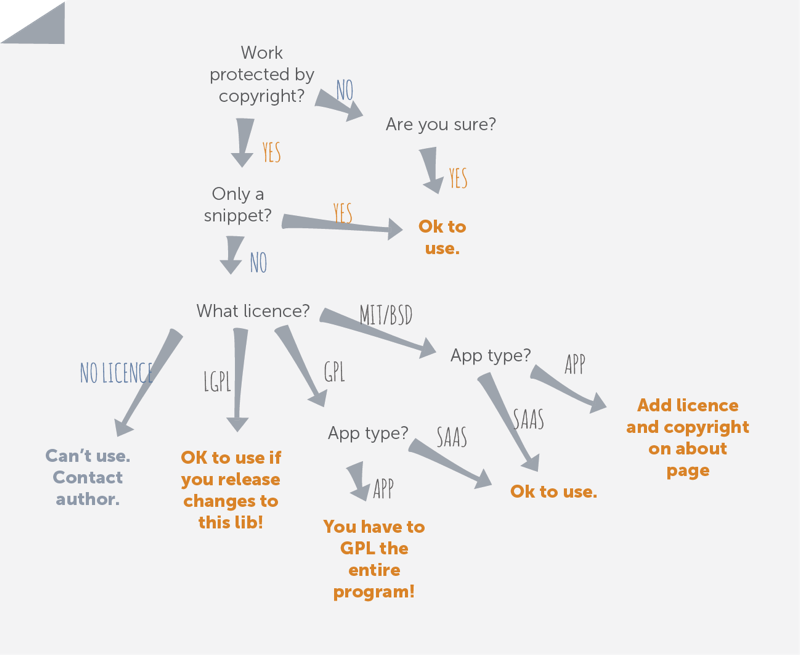
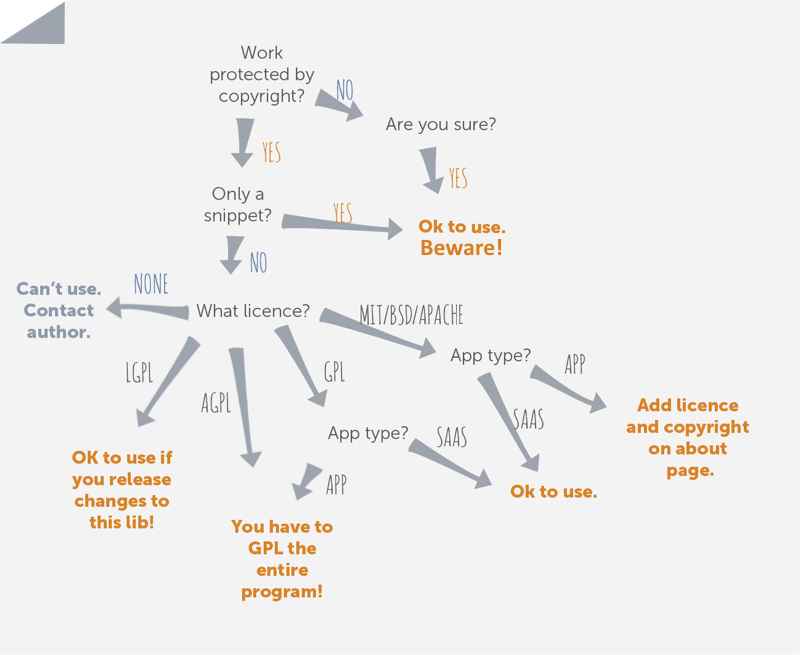
Adding AGPL and Apache to license choosing diagram, also improving the texts

Changed region(s): [[0.0, 0.3969, 0.5312, 0.916], [0.5, 0.3359, 0.625, 0.3969], [0.5, 0.458, 0.5938, 0.4885]]

diff --git a/index.html b/index.html
@@ -129,7 +129,7 @@ description: Spice Program is a company sponsored open source and social impact 
                     <div class="col-sm-4 box brown">
                         <img src="/assets/img/choose_big.svg" alt="Choosing an open source license" />
                         <h3>Choosing a license</h3>
-                        <p>How to choose the appropriate license for your project?</p>
+                        <p>How to choose the appropriate license for your project? Can you make use of someone else's work?</p>
                     </div>
                 </a>
                 <a href="/licenses">

diff --git a/_includes/choose.md b/_includes/choose.md
@@ -16,6 +16,10 @@ Here's how we roll:
 Can I use this work?
 --------------------
 
-It is very important to know if you can use some work. Please consider at least these points:
+It is important to know, if you can use some work. Check out this diagram. Keep in mind that there is no universal rule on "how many lines of code" will constitute a copyright infringement. Could be ten, could be one... The safest bet is to rewrite everything.
+
+If you want to possibly ruin your perfectly good browsing & coffee break, [this copyright discussion on Meta Stack Exchange](http://meta.stackexchange.com/questions/12527/do-i-have-to-worry-about-copyright-issues-for-code-posted-on-stack-overflow) might be of interest. 
+
+Again, as far as the licenses go, this should be pretty solid:
 
 ![Using creative work](/assets/img/using.png "Use")
